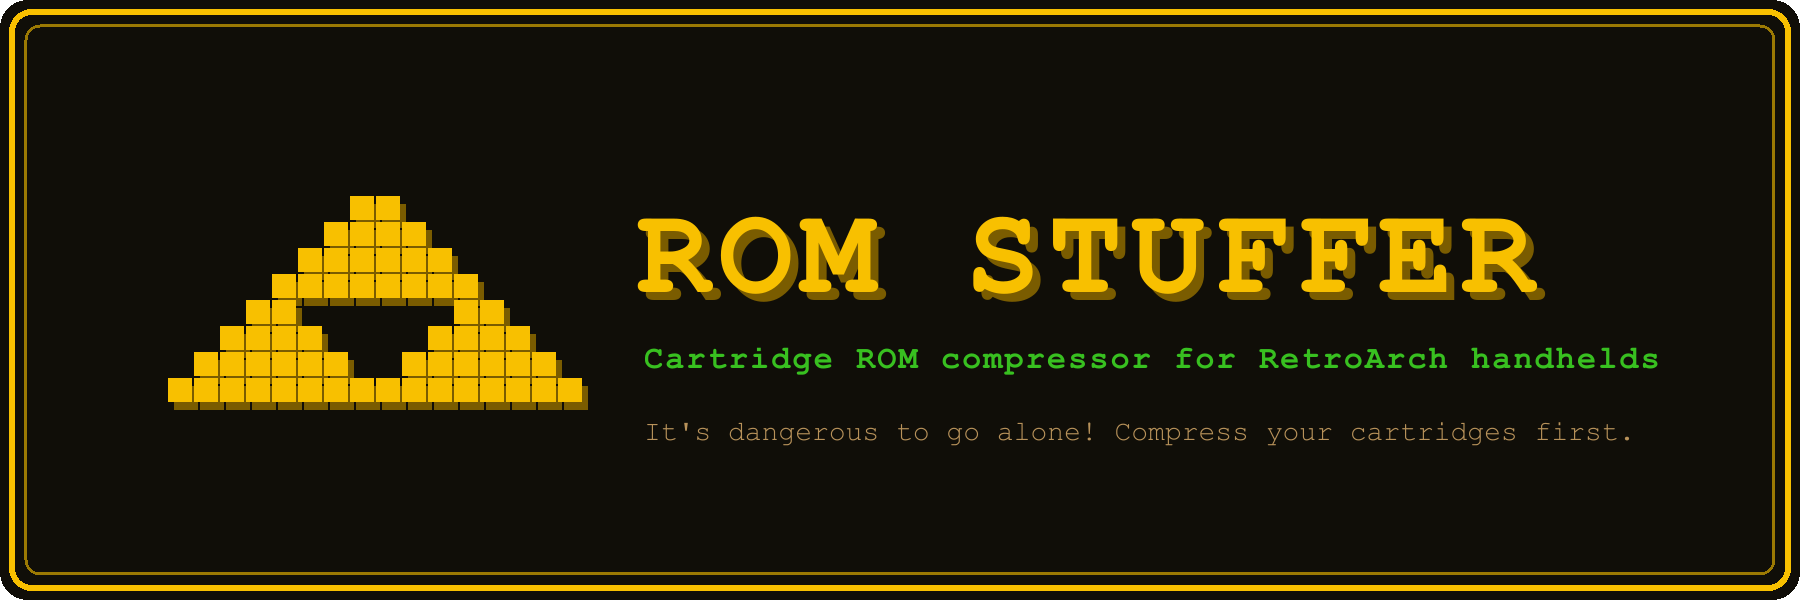
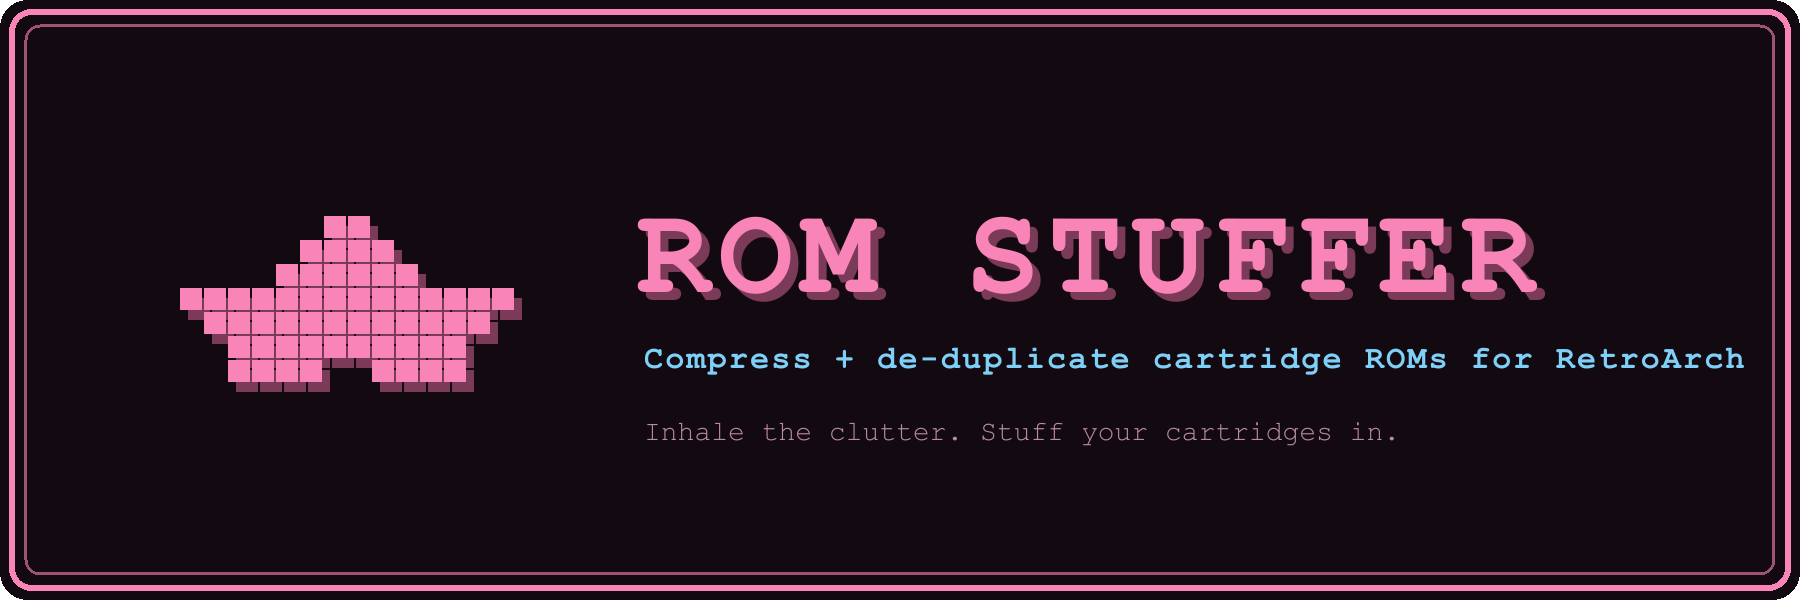
Theming: Kirby default + Tetris, integrated into rom_stuffer package
- Add two themes to rom_stuffer/themes.py: kirby (default, pink pixel star)
  and tetris (colour block-stack). Keep zelda + metroid. All emblems are
  original geometric pixel-art, not character reproductions.
- Set DEFAULT_THEME = "kirby"; the repo hero banner is now the pink star.
- Regenerate banner + all four theme screenshots; update README (default,
  four-theme gallery, --theme help). gitignore the .claude worktrees dir.

diff --git a/rom_stuffer/themes.py b/rom_stuffer/themes.py
@@ -33,7 +33,61 @@ METROID_ART = (
     "[brand]▚   ▚   ▚[/brand]"
 )
 
+# "kirby" theme emblem — an original pink pixel star (generic geometric shape).
+KIRBY_ART = (
+    "[brand]██[/brand]\n"
+    "[brand]████[/brand]\n"
+    "[brand]██████[/brand]\n"
+    "[brand]██████████████[/brand]\n"
+    "[brand]████████████[/brand]\n"
+    "[brand]██████████[/brand]\n"
+    "[brand]████  ████[/brand]"
+)
+
+# "tetris" theme emblem — a symmetric stack of colour block-pieces (generic grid).
+TETRIS_ART = (
+    "[info]████[/info]\n"
+    "[warn]████████[/warn]\n"
+    "[danger]██[/danger][success]████[/success][danger]██[/danger]\n"
+    "[accent]██[/accent][brand]████[/brand][accent]██[/accent]\n"
+    "[brand]████████████[/brand]"
+)
+
 THEMES: dict[str, dict] = {
+    "kirby": {
+        "styles": {
+            "brand": "bold #f884b8",      # pink
+            "accent": "#ff5c8a",          # deep rose
+            "info": "#7fd0f8",            # sky blue
+            "success": "bold #9be15d",    # green
+            "warn": "#ffd93d",            # yellow
+            "danger": "bold #ff4d6d",     # red
+            "muted": "dim #b98aa0",       # muted mauve
+            "value": "bold #ffd93d",
+            "path": "#7fd0f8",
+        },
+        "art": KIRBY_ART,
+        "label": "kirby theme",
+        "tagline": "Inhale the clutter.  Stuff your cartridges in.",
+        "border": "#f884b8",
+    },
+    "tetris": {
+        "styles": {
+            "brand": "bold #b388ff",      # block purple
+            "accent": "#29b6f6",          # block blue
+            "info": "#26c6da",            # block cyan
+            "success": "bold #66bb6a",    # block green
+            "warn": "#ffca28",            # block yellow
+            "danger": "bold #ef5350",     # block red
+            "muted": "dim #90a4ae",       # slate
+            "value": "bold #ffca28",
+            "path": "#29b6f6",
+        },
+        "art": TETRIS_ART,
+        "label": "tetris theme",
+        "tagline": "Pack them tight.  No wasted space.",
+        "border": "#b388ff",
+    },
     "zelda": {
         "styles": {
             "brand": "bold #f8c000",     # gold
@@ -69,7 +123,7 @@ THEMES: dict[str, dict] = {
         "border": "#f85000",
     },
 }
-DEFAULT_THEME = "zelda"
+DEFAULT_THEME = "kirby"
 
 _active_theme = {"name": DEFAULT_THEME}
 

diff --git a/rom_stuffer/cli.py b/rom_stuffer/cli.py
@@ -291,7 +291,7 @@ def main() -> None:
     )
     parser.add_argument(
         "--theme", choices=sorted(THEMES.keys()), default=None,
-        help="Visual theme: 'zelda' (default) or 'metroid'.",
+        help="Visual theme: kirby (default), tetris, zelda, or metroid.",
     )
 
     args = parser.parse_args()

diff --git a/README.md b/README.md
@@ -51,9 +51,9 @@ This script is designed **exclusively** for cartridge-based systems, such as:
 
 <div align="center">
 
-<img src="assets/screenshot-zelda.png" alt="ROM Stuffer running in the zelda theme" width="80%">
+<img src="assets/screenshot-kirby.png" alt="ROM Stuffer running in the kirby theme" width="80%">
 
-<sub>The interactive UI in the **zelda** theme — pick **metroid** any time with `--theme metroid`. See [Themes](#themes).</sub>
+<sub>The interactive UI in the default **kirby** theme — switch any time with `--theme tetris|zelda|metroid`. See [Themes](#themes).</sub>
 
 </div>
 
@@ -205,38 +205,58 @@ python compress_roms.py --source "<source_directory>" --dest "<backup_directory>
 | `--level` | `-l` | **(Optional)** DEFLATE compression level 1–9. Default: `6` (Normal). Level 6 is the recommended balance for RetroArch handhelds — do not go higher without testing on your device. |
 | `--resume` | | **(Optional)** Resume a previously interrupted job from its saved progress, skipping the full rescan. See [Resuming an interrupted job](#resuming-an-interrupted-job). |
 | `--fresh` | | **(Optional)** Discard any saved progress in the destination and start a brand-new scan. |
-| `--theme` | | **(Optional)** Visual theme: `zelda` (default) or `metroid`. See [Themes](#themes). |
+| `--theme` | | **(Optional)** Visual theme: `kirby` (default), `tetris`, `zelda`, or `metroid`. See [Themes](#themes). |
 | `--help` | `-h` | Show the help menu and exit. |
 
 ---
 
 ## Themes
 
-The interactive UI ships with two retro 8-bit skins. Launch with no arguments and it asks which you'd like; or pick one up front with `--theme`:
+The interactive UI ships with four retro 8-bit skins, each with an original pixel-art emblem and its own palette. Launch with no arguments and it asks which you'd like; or pick one up front with `--theme`:
 
 ```bash
-python compress_roms.py --theme zelda      # gold Triforce, Link-green (default)
-python compress_roms.py --theme metroid    # Samus orange, bio-cyan Metroid
+python rom_stuffer.py --theme kirby      # pink star (default)
+python rom_stuffer.py --theme tetris     # colour block-stack
+python rom_stuffer.py --theme zelda      # gold triangle emblem
+python rom_stuffer.py --theme metroid    # bio-cyan creature
 ```
 
-Each theme re-skins the entire interface — banner, panels, section rules, progress bars, and summary colours.
+Each theme re-skins the entire interface — banner, panels, section rules, progress bars, and summary colours. Emblems are original geometric pixel-art, not reproductions of any character.
 
 <table>
 <tr>
 <td width="50%" align="center">
 
-**`zelda`** *(default)*<br>
-<sub>Gold Triforce · Link-green · "It's dangerous to go alone!"</sub>
+**`kirby`** *(default)*<br>
+<sub>Pink pixel star · "Inhale the clutter."</sub>
 
-<img src="assets/screenshot-zelda.png" alt="Zelda theme" width="100%">
+<img src="assets/screenshot-kirby.png" alt="kirby theme" width="100%">
+
+</td>
+<td width="50%" align="center">
+
+**`tetris`**<br>
+<sub>Colour block-stack · "Pack them tight."</sub>
+
+<img src="assets/screenshot-tetris.png" alt="tetris theme" width="100%">
+
+</td>
+</tr>
+<tr>
+<td width="50%" align="center">
+
+**`zelda`**<br>
+<sub>Gold triangle emblem · Link-green</sub>
+
+<img src="assets/screenshot-zelda.png" alt="zelda theme" width="100%">
 
 </td>
 <td width="50%" align="center">
 
 **`metroid`**<br>
-<sub>Samus orange · bio-cyan Metroid with red nuclei · visor-yellow</sub>
+<sub>Samus-orange · bio-cyan creature</sub>
 
-<img src="assets/screenshot-metroid.png" alt="Metroid theme" width="100%">
+<img src="assets/screenshot-metroid.png" alt="metroid theme" width="100%">
 
 </td>
 </tr>